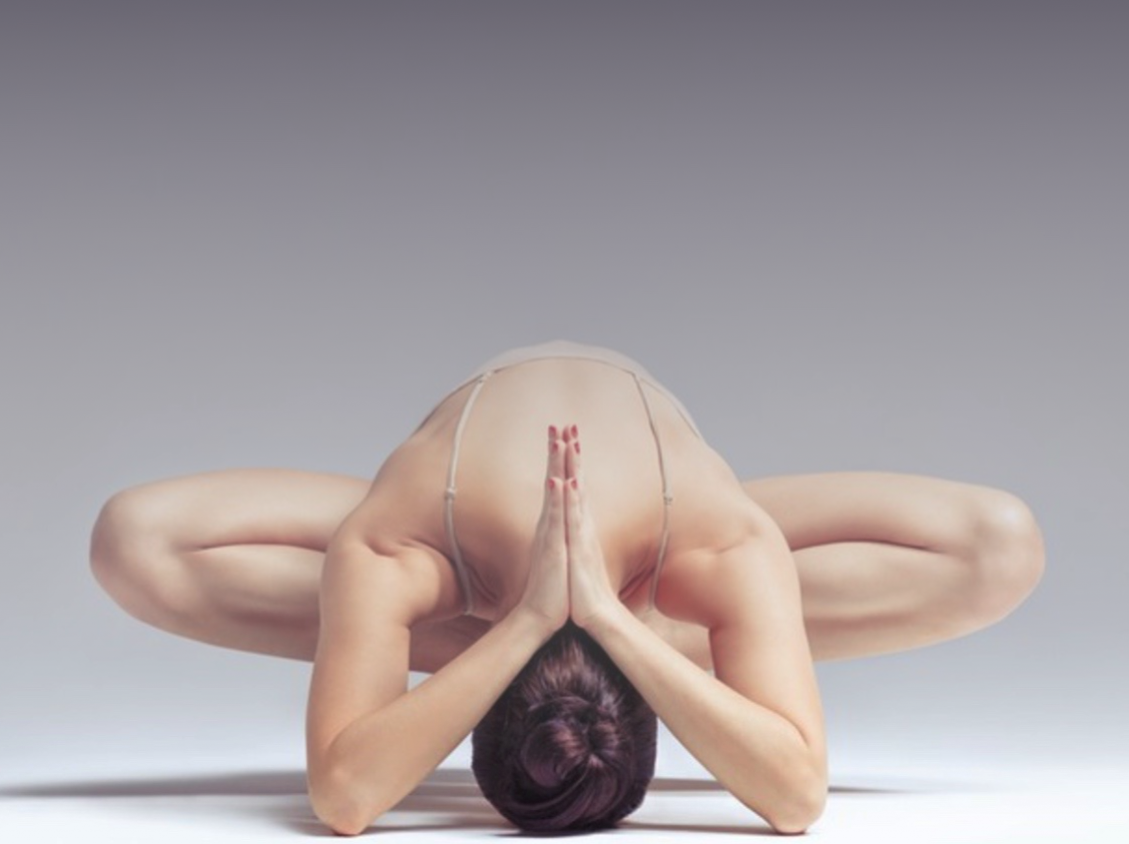
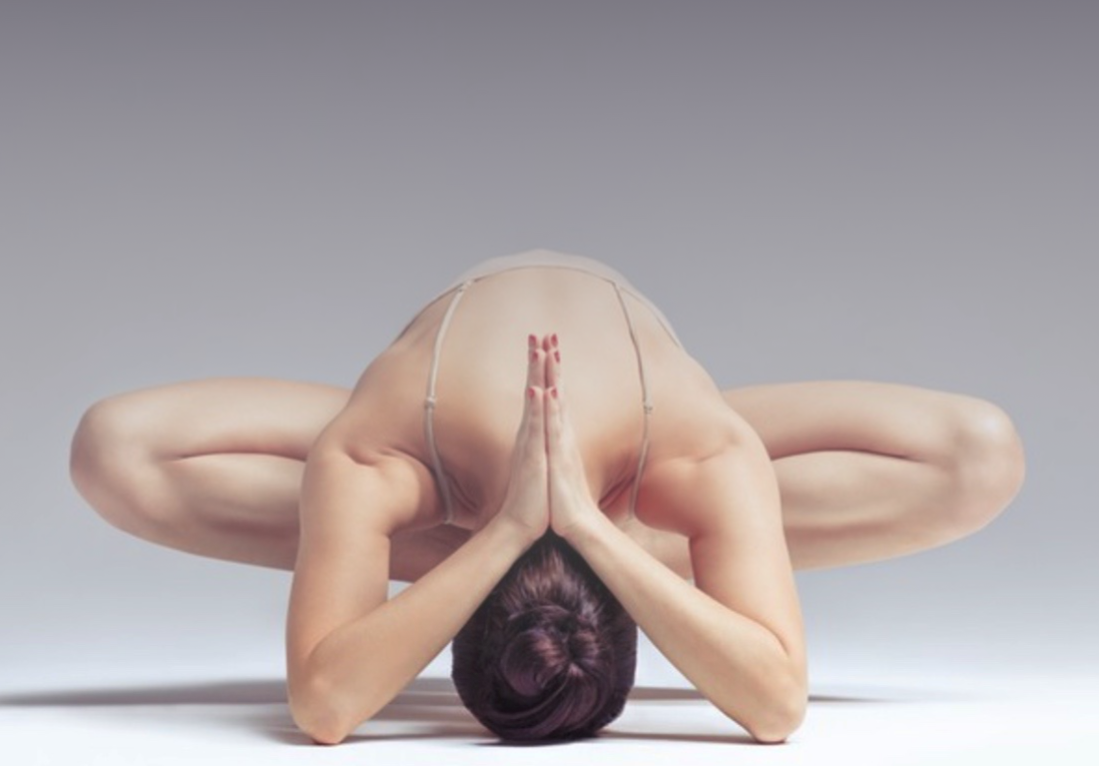
updated image

Changed region(s): [[0.0, 0.3303, 0.9591, 1.0]]

diff --git a/css/style.css b/css/style.css
@@ -120,6 +120,6 @@ body {
         background-size: cover;
         background-position: center;
         width: 100vw;
-        height: 850px;
+        height: 750px;
     }
 }
